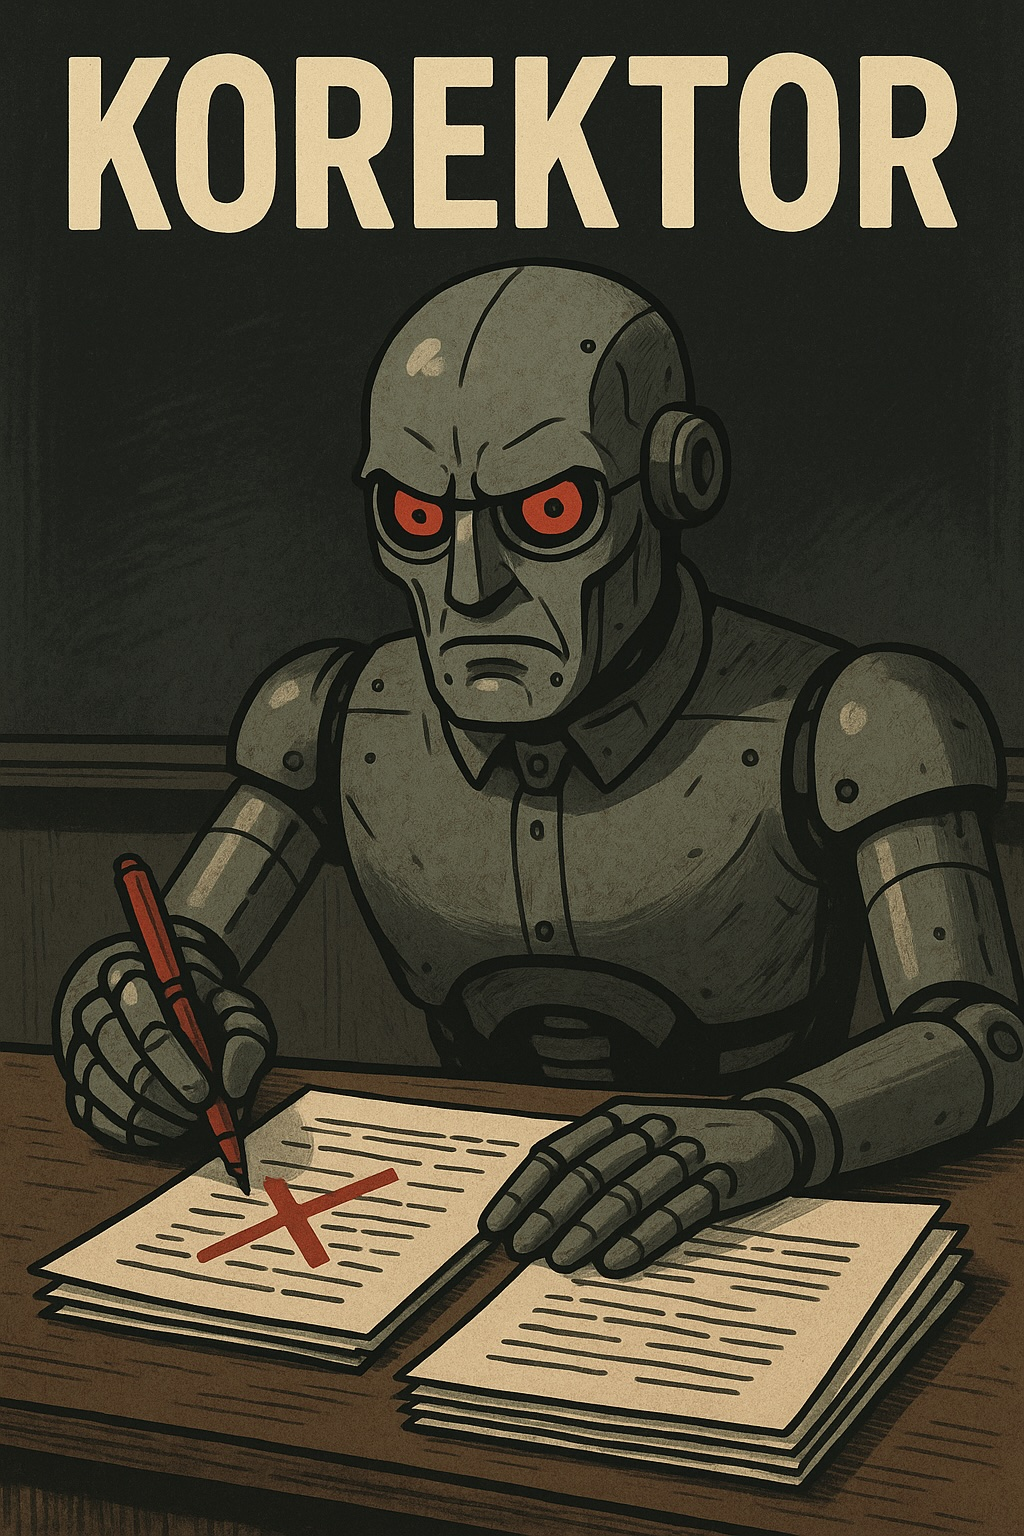
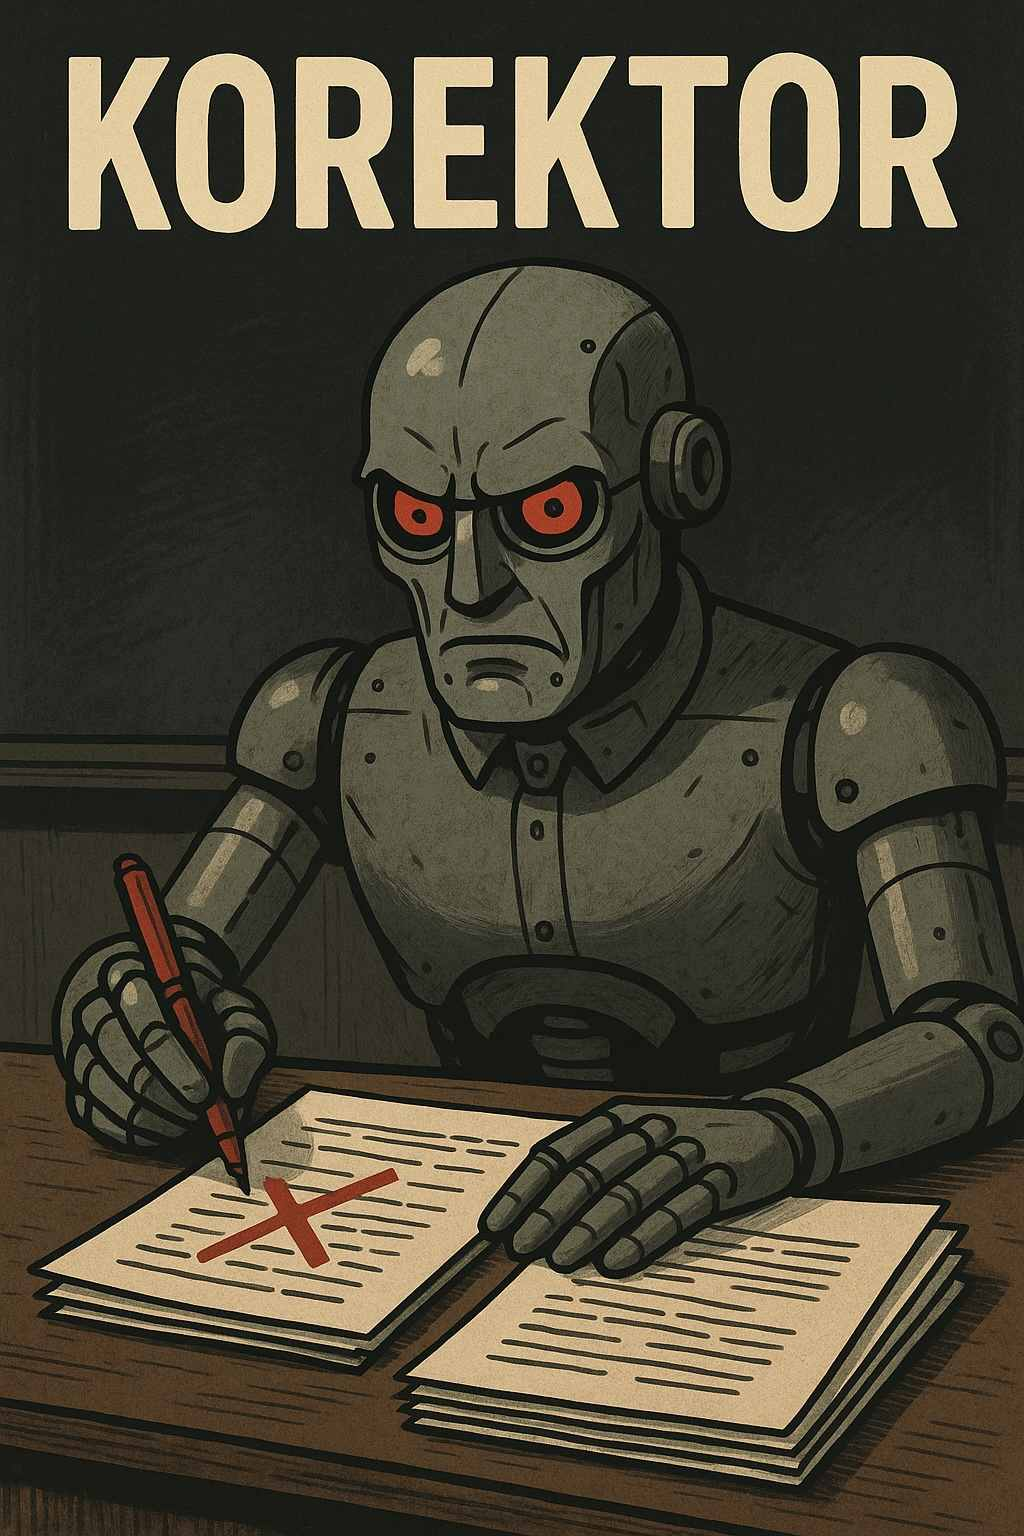
Better 'bilan' (summary) mode.

Changed region(s): [[0.8125, 0.8438, 0.875, 0.9062], [0.875, 0.8125, 0.9062, 0.8438], [0.7812, 0.9062, 0.8125, 0.9375]]

diff --git a/correct_ai/templates/bilan.html b/correct_ai/templates/bilan.html
@@ -13,6 +13,12 @@
             max-width: 30%;
         }
     }
+
+    .class-stat-value {
+        font-size: 1.8rem;
+        font-weight: 600;
+        line-height: 1.1;
+    }
 </style>
 {% endblock %}
 
@@ -55,6 +61,49 @@
             <div class="card-body">
                 <h1 class="display-4 text-info" id="stat-max">-</h1>
                 <p class="text-muted small">Points max (barème)</p>
+            </div>
+        </div>
+    </div>
+</div>
+
+<div class="row mb-4" id="class-statistics">
+    <div class="col-6 col-md">
+        <div class="card shadow-sm text-center">
+            <div class="card-body py-2">
+                <div class="class-stat-value" id="stat-average">-</div>
+                <div class="text-muted small">Moyenne / 20</div>
+            </div>
+        </div>
+    </div>
+    <div class="col-6 col-md">
+        <div class="card shadow-sm text-center">
+            <div class="card-body py-2">
+                <div class="class-stat-value" id="stat-median">-</div>
+                <div class="text-muted small">Médiane / 20</div>
+            </div>
+        </div>
+    </div>
+    <div class="col-6 col-md">
+        <div class="card shadow-sm text-center">
+            <div class="card-body py-2">
+                <div class="class-stat-value" id="stat-standard-deviation">-</div>
+                <div class="text-muted small">Écart-type / 20</div>
+            </div>
+        </div>
+    </div>
+    <div class="col-6 col-md">
+        <div class="card shadow-sm text-center">
+            <div class="card-body py-2">
+                <div class="class-stat-value" id="stat-minimum">-</div>
+                <div class="text-muted small">Minimum / 20</div>
+            </div>
+        </div>
+    </div>
+    <div class="col-6 col-md">
+        <div class="card shadow-sm text-center">
+            <div class="card-body py-2">
+                <div class="class-stat-value" id="stat-maximum">-</div>
+                <div class="text-muted small">Maximum / 20</div>
             </div>
         </div>
     </div>
@@ -126,6 +175,8 @@ async function loadBilan() {
         document.getElementById('stat-max').innerText = data.max_points;
         document.getElementById('stat-max-header').innerText = data.max_points;
 
+        updateClassStatistics(data.notes, data.max_points);
+
         // Tableau des notes
         let rows = '';
         data.notes.forEach(n => {
@@ -171,6 +222,64 @@ async function loadBilan() {
         document.getElementById('stats-cards').innerHTML =
             '<div class="col-12"><div class="alert alert-danger">Erreur de chargement</div></div>';
     }
+}
+
+function updateClassStatistics(notes, maximumPoints) {
+    const scores = notes
+        .map(note => {
+            const total = Number(note.total);
+            return maximumPoints > 0 ? total / maximumPoints * 20 : NaN;
+        })
+        .filter(score => Number.isFinite(score))
+        .sort((a, b) => a - b);
+
+    const fields = [
+        'stat-average',
+        'stat-median',
+        'stat-standard-deviation',
+        'stat-minimum',
+        'stat-maximum'
+    ];
+
+    if (scores.length === 0) {
+        fields.forEach(id => document.getElementById(id).innerText = '-');
+        return;
+    }
+
+    const average = scores.reduce((sum, score) => sum + score, 0) / scores.length;
+    const middle = Math.floor(scores.length / 2);
+    const median = scores.length % 2
+        ? scores[middle]
+        : (scores[middle - 1] + scores[middle]) / 2;
+    const variance = scores.reduce((sum, score) => sum + (score - average) ** 2, 0) / scores.length;
+    const standardDeviation = Math.sqrt(variance);
+    const format = value => value.toFixed(2);
+
+    document.getElementById('stat-average').innerText = format(average);
+    document.getElementById('stat-median').innerText = format(median);
+    document.getElementById('stat-standard-deviation').innerText = format(standardDeviation);
+    document.getElementById('stat-minimum').innerText = format(scores[0]);
+    document.getElementById('stat-maximum').innerText = format(scores[scores.length - 1]);
+
+    const scoreColor = value => interpolateColor('#8b1e2d', '#1f6f4a', value / 20);
+    const deviationColor = value => interpolateColor('#8b1e2d', '#1f6f4a', 1 - value / 10);
+    document.getElementById('stat-average').style.color = scoreColor(average);
+    document.getElementById('stat-median').style.color = scoreColor(median);
+    document.getElementById('stat-standard-deviation').style.color = deviationColor(standardDeviation);
+    document.getElementById('stat-minimum').style.color = '#8b1e2d';
+    document.getElementById('stat-maximum').style.color = '#1f6f4a';
+}
+
+function interpolateColor(start, end, ratio) {
+    const clamp = value => Math.max(0, Math.min(1, value));
+    const parse = color => color.match(/[\da-f]{2}/gi).map(component => parseInt(component, 16));
+    const startRgb = parse(start);
+    const endRgb = parse(end);
+    const amount = clamp(ratio);
+    const rgb = startRgb.map((component, index) =>
+        Math.round(component + (endRgb[index] - component) * amount)
+    );
+    return `rgb(${rgb.join(', ')})`;
 }
 </script>
 {% endblock %}
